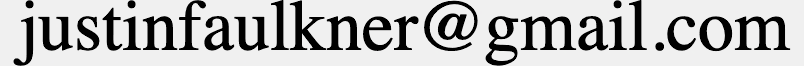
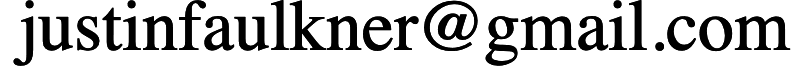
print stylesheet tweaks

diff --git a/index.html b/index.html
@@ -16,9 +16,9 @@
 
     <link rel="shortcut icon" type="image/png" href="images/favicon.png" />
 
-    <link rel="stylesheet" href="css/normalize.css?v=3" />
-    <link rel="stylesheet" href="css/reset.css?v=3" />
-    <link rel="stylesheet" href="css/styles.css?v=3" />
+    <link rel="stylesheet" href="css/normalize.css?v=4" />
+    <link rel="stylesheet" href="css/reset.css?v=4" />
+    <link rel="stylesheet" href="css/styles.css?v=4" />
   </head>
 
   <body>
@@ -233,6 +233,14 @@
                 gaming
               </div>
               <div>Code that’s easy to understand, maintain, and test.</div>
+            </div>
+          </dd>
+          <dt></dt>
+          <dd class="print-only">
+            <div class="entry">
+              <div>
+                Fun fact: Print justinfaulkner.com to produce this document!
+              </div>
             </div>
           </dd>
         </dl>

diff --git a/css/styles.css b/css/styles.css
@@ -74,8 +74,6 @@ h2 {
 
 .entry {
   padding: 0.5em 0.65em;
-
-  border-radius: 7px;
 }
 
 .entry:not(:last-child) {
@@ -133,6 +131,10 @@ strong {
   vertical-align: middle;
 }
 
+.print-only {
+  display: none;
+}
+
 @media print {
   body {
     font-size: 10px;
@@ -143,15 +145,21 @@ strong {
   }
 
   .header {
-    padding-top: 1.5em;
+    padding-top: 2em;
+    background-color: white;
+    padding-bottom: 0.25em;
+  }
+
+  .header-border {
+    height: 7px;
   }
 
   h1 {
-    font-size: 2em;
+    font-size: 3em;
   }
 
   h2 {
-    font-size: 1.25em;
+    font-size: 1em;
     margin-bottom: 0.5em;
   }
 
@@ -164,6 +172,18 @@ strong {
   }
 
   .email-image {
-    width: 125px;
+    width: 110px;
+  }
+
+  .sections dd {
+    margin-bottom: 0.75em;
+  }
+
+  .entry:not(:last-child) {
+    margin-bottom: 0.75em;
+  }
+
+  .print-only {
+    display: block;
   }
 }
